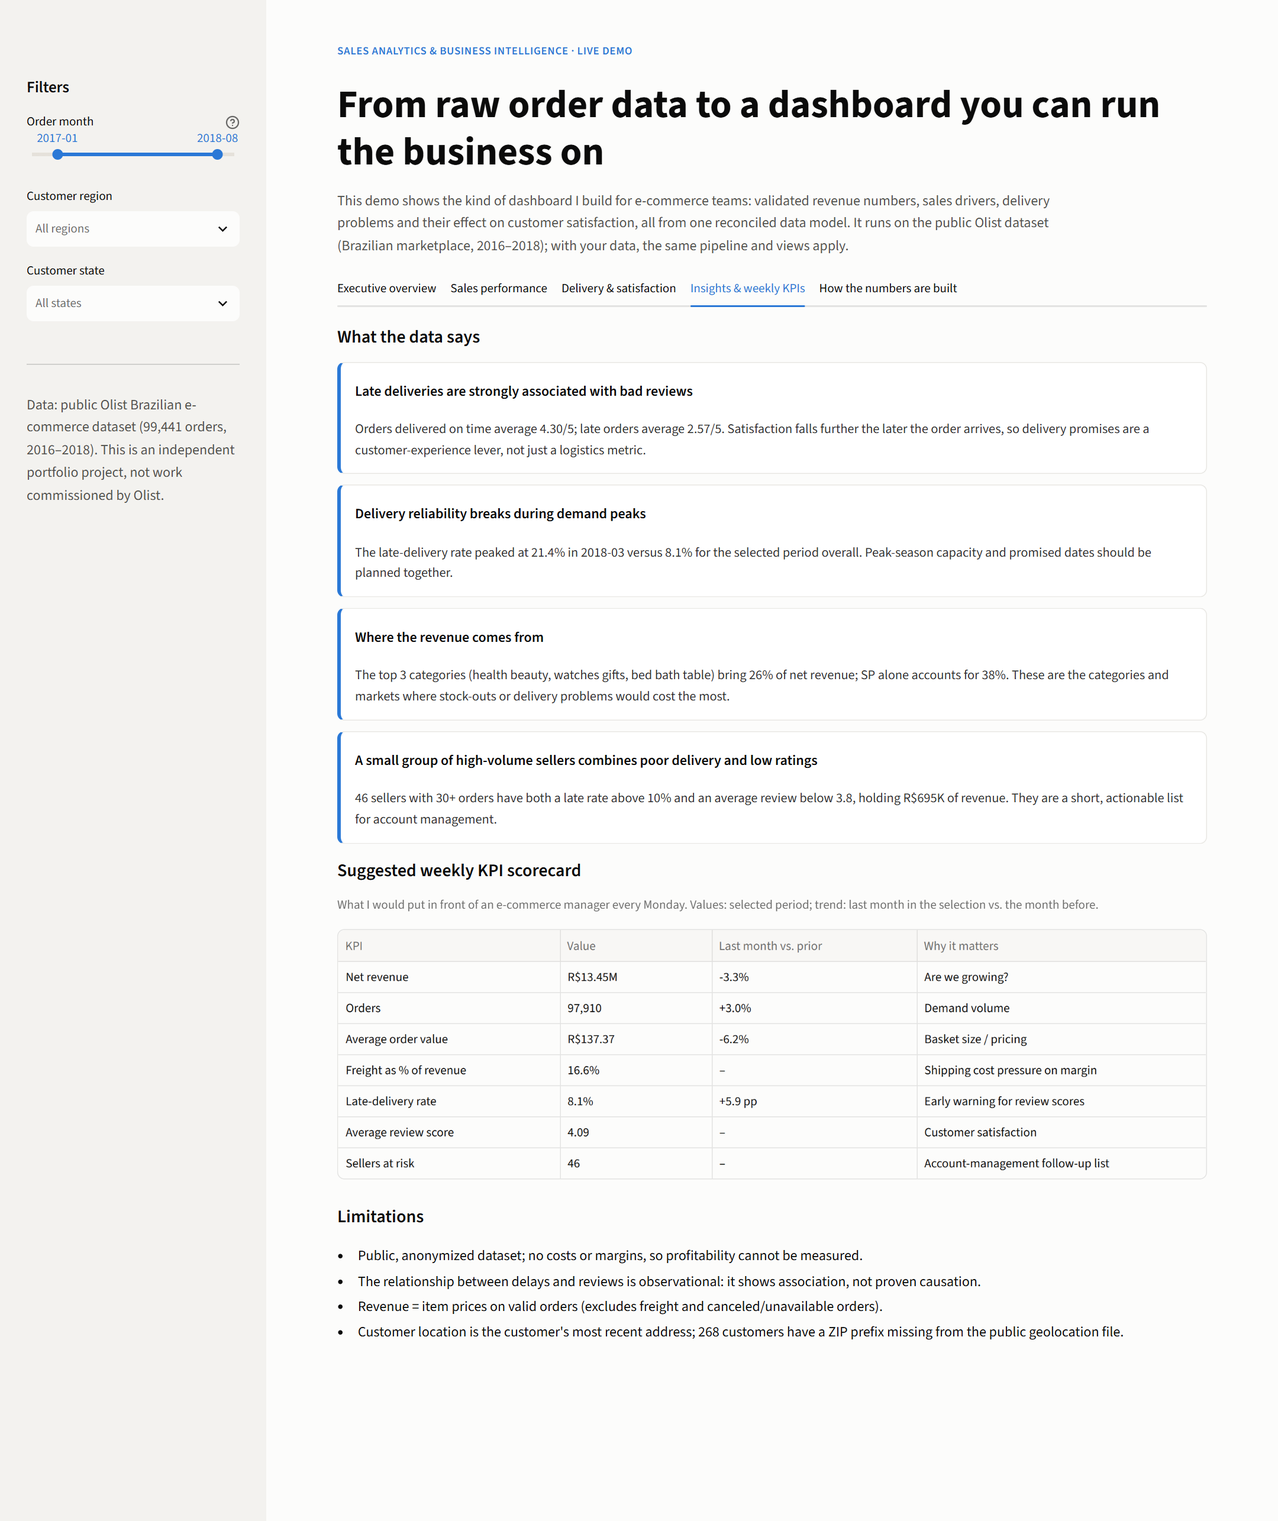
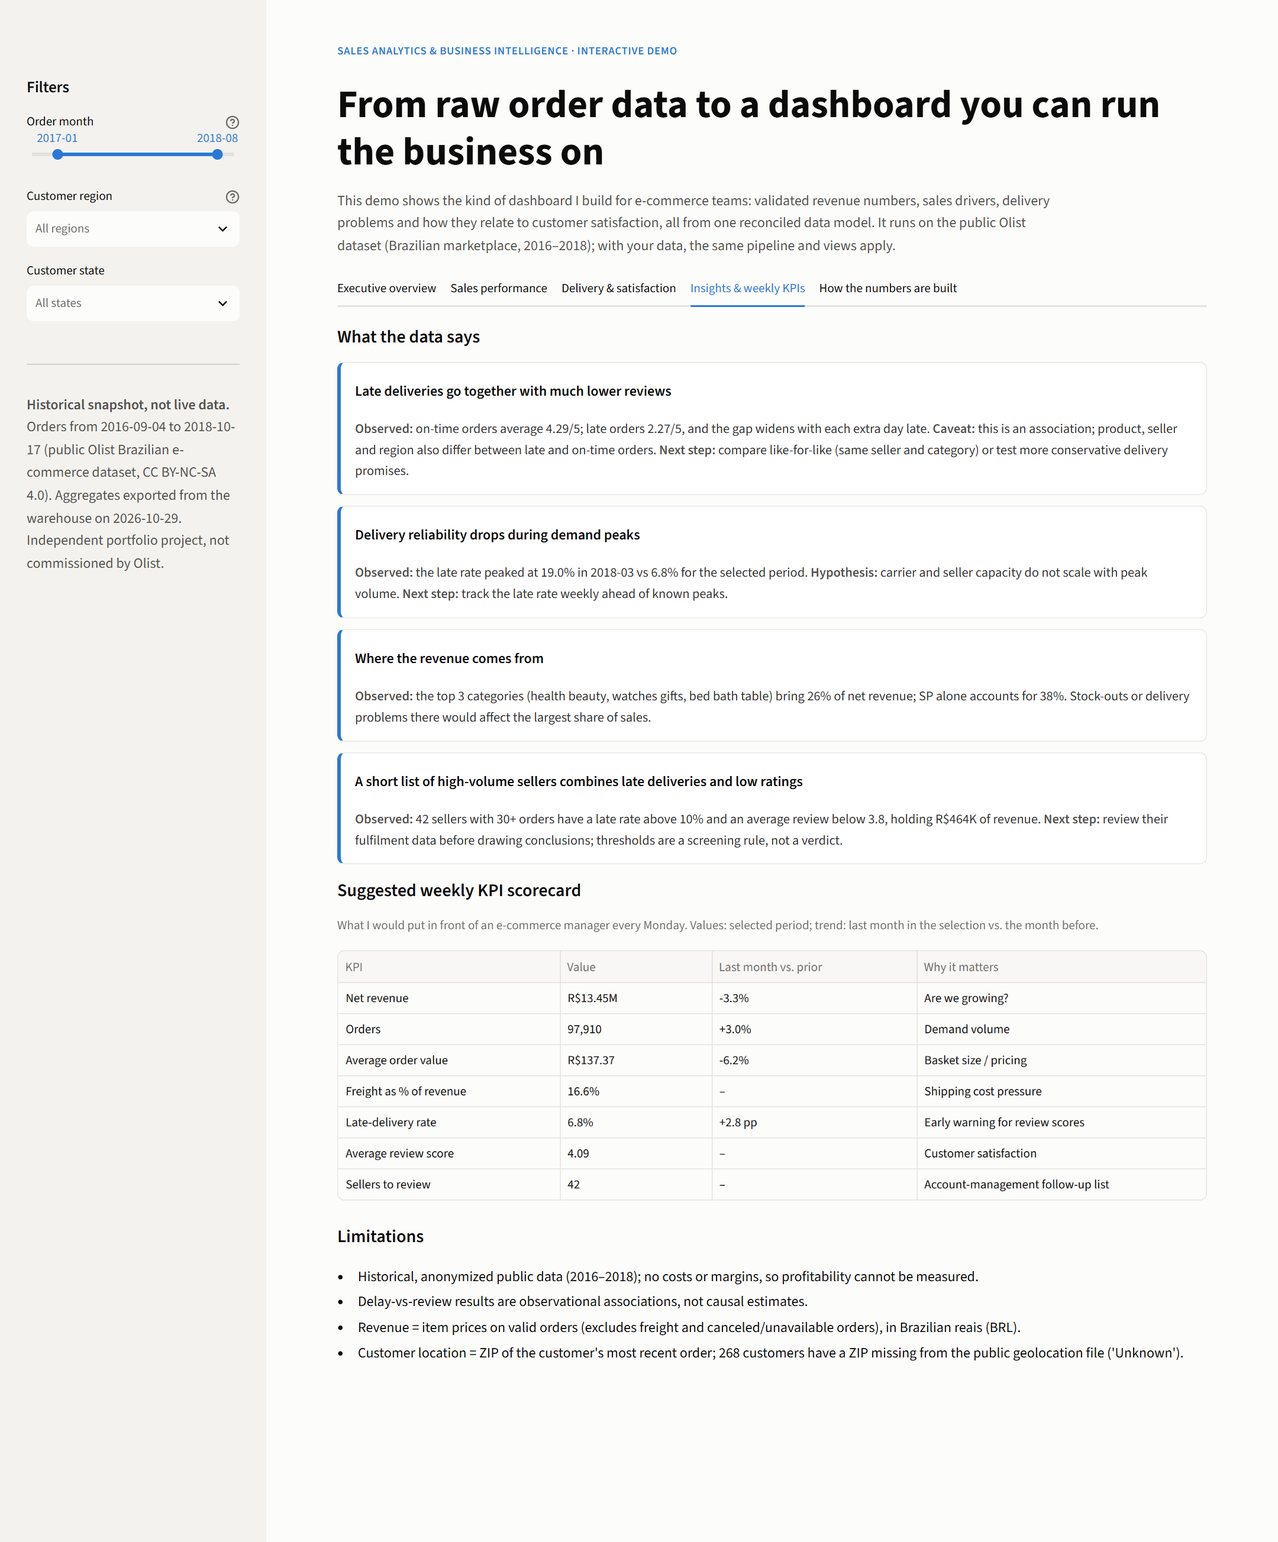
docs: recruiter-first README, deployment guide and refreshed demo screenshots
- README leads with problem, build, stack, verified KPIs, demo and the
  portfolio-vs-client distinction; adds tests/validation and data license
- docs/DEPLOYMENT.md: Streamlit Community Cloud steps and data refresh
- demo: mobile top padding so the header no longer covers the title
- screenshots regenerated from the running demo after the KPI changes

diff --git a/demo/app.py b/demo/app.py
@@ -41,7 +41,7 @@ st.markdown(
 .insight p {margin: 0; color: #303030; font-size: .93rem;}
 .insight .label {color: #52514e; font-weight: 600;}
 @media (max-width: 640px) {
-  .block-container {padding-left: 1rem; padding-right: 1rem;}
+  .block-container {padding-left: 1rem; padding-right: 1rem; padding-top: 3.5rem;}
   h1 {font-size: 1.7rem !important;}
 }
 </style>

diff --git a/README.md b/README.md
@@ -1,54 +1,44 @@
 # Olist E-Commerce Analytics & BI
 
-**A reproducible sales-analytics stack — from 1.5 million raw rows to reconciled KPIs, a Power BI executive dashboard and a client-ready web demo.**
+**From 1.5 million raw marketplace rows to reconciled KPIs, a Power BI executive dashboard and an interactive web demo — with every number tested.**
 
-Built on the public [Olist Brazilian e-commerce dataset](https://www.kaggle.com/datasets/olistbr/brazilian-ecommerce) (99,441 orders, 2016–2018). Independent portfolio project; not commissioned by or affiliated with Olist.
+*Independent portfolio project on the public [Olist Brazilian e-commerce dataset](https://www.kaggle.com/datasets/olistbr/brazilian-ecommerce) (99,441 orders, 2016–2018). Not commissioned by, affiliated with, or used by Olist; no figure below is a business result I delivered to a client.*
+
+**Demo:** `streamlit run demo/app.py` (no database needed) · public deployment steps in [docs/DEPLOYMENT.md](docs/DEPLOYMENT.md)
 
 ![Web demo — executive overview](images/demo/01_executive_overview.png)
 
-| Net revenue analysed | Valid orders | Unique customers | Avg order value | Late deliveries | Review: on-time vs late |
-|---:|---:|---:|---:|---:|---:|
-| R$ 13.49M | 98,207 | 96,096 | R$ 137.41 | 8.11% | 4.29 vs 2.57 |
+| Net revenue analysed | Valid orders | Avg order value | Late deliveries | Review: on-time vs late | Data checks | Tests |
+|---:|---:|---:|---:|---:|---:|---:|
+| R$ 13.49M | 98,207 | R$ 137.41 | 6.77% | 4.29 vs 2.27 | 44 (0 failing) | 57 passing |
 
-Every figure above is produced by the SQL model and re-checked by the automated test suite ([data-quality report](reports/data_quality_report.md)).
+KPIs are identical in PostgreSQL, Power BI and the web demo — see the [reconciliation matrix](docs/KPI_RECONCILIATION.md).
 
 ---
 
 ## The business problem
 
-An online marketplace generates data in many disconnected tables: orders, items, payments, reviews, sellers, products, locations. Answering simple management questions — *How much are we really selling? Which categories and sellers drive revenue? Where does delivery fail, and does it cost us customer satisfaction?* — requires joining them correctly. Done naively, multi-item and multi-payment orders double-count revenue, canceled orders inflate sales, and the same customer appears as thousands of "new" ones.
+A marketplace stores orders, items, payments, reviews, customers, sellers and products in separate tables. Answering *how much did we sell, what drives it, where does delivery fail and does it hurt satisfaction?* means joining them, and the easy joins are wrong: multi-item and multi-payment orders double-count revenue, canceled orders inflate sales, and every order looks like a new customer because Olist issues a new `customer_id` per order.
 
-## The solution
-
-1. **PostgreSQL warehouse** with `raw → staging → analytics → reporting` layers, typed columns and PK/FK/CHECK constraints.
-2. **Star schema** — 5 dimensions and 3 fact tables at order, item and payment grain, so revenue is never multiplied by joins.
-3. **Python pipeline** — one command rebuilds the whole warehouse in a single transaction (≈30 s), idempotently.
-4. **Automated data quality** — 42 checks (keys, nulls, dates, money, cross-grain revenue reconciliation) plus 40 pytest tests on a hand-checkable fixture dataset.
-5. **Power BI** — six-page executive dashboard on the star schema with a documented DAX measure library.
-6. **Web demo (Streamlit)** — a guided, filterable version for clients who do not use Power BI, reconciled to the SQL KPIs.
-
-## Key findings
-
-- **Late delivery is strongly associated with poor reviews.** On-time orders average **4.29/5**; late ones **2.57/5**. 15+ days late, 76% of reviews are 1–2 stars.
-- **Delivery breaks during demand peaks.** The late rate rose from ~3–5% in mid-2017 to **14.3%** in Nov 2017 (Black Friday) and **21.4%** in Mar 2018.
-- **Revenue is geographically concentrated:** São Paulo state is **38.3%** of net revenue; the North-East has the worst delivery (Alagoas 24.0% late, avg review 3.76).
-- **Seller revenue is concentrated:** the top 10% of sellers generate **67.4%** of net revenue. **44** sellers with 30+ orders combine >10% late deliveries with an average review below 3.8 — a short, actionable list.
-- **Growth:** Jan–Aug 2018 net revenue was **+138.3%** vs Jan–Aug 2017; repeat customers are only **3.12%** of the base.
-
-Details and recommendations: [business insights](insights/business_insights.md) · [recommendations](insights/recommendations.md).
-
-## Architecture
+## What I built
 
 ```mermaid
 flowchart LR
-    A[9 Olist CSV files<br/>1.55M rows] -->|python -m olist_bi build| B[(raw<br/>typed + constrained)]
-    B --> C[(staging<br/>cleaning, flags,<br/>ZIP aggregation)]
+    A[9 Olist CSVs<br/>1.55M rows] -->|python -m olist_bi build| B[(raw<br/>typed + constrained)]
+    B --> C[(staging<br/>cleaning flags)]
     C --> D[(analytics<br/>5 dims + 3 facts)]
     D --> E[(reporting<br/>validated views)]
-    D -->|42 checks| Q[Data-quality report]
-    D -->|Import| P[Power BI<br/>6-page dashboard]
-    D -->|python -m olist_bi export| X[Parquet aggregates] --> S[Streamlit demo]
+    D -->|44 checks| Q[Data-quality report]
+    D -->|Import| P[Power BI<br/>6 pages]
+    D -->|export| X[Parquet aggregates] --> S[Streamlit demo]
 ```
+
+- **PostgreSQL warehouse** in four layers with PK/FK/CHECK constraints, rebuilt by a **Python pipeline** in one transaction (~30 s, idempotent).
+- **Star schema** with facts at order, item and payment grain, so revenue is never multiplied by joins.
+- **Data quality gate:** 44 checks — keys, nulls, dates, money, and revenue reconciliation across grains and views ([report](reports/data_quality_report.md)).
+- **57 automated tests**, including a hand-computed fixture warehouse and demo-vs-SQL reconciliation under date, region, state, category and seller filters; GitHub Actions builds the full warehouse twice and runs them.
+- **Power BI** six-page dashboard on the star schema with a documented [DAX library](powerbi/dax_measures.md).
+- **Streamlit demo** for viewers without Power BI: filters, insights with caveats, a weekly KPI scorecard and an in-app reconciliation table.
 
 ### Star schema
 
@@ -63,117 +53,51 @@ erDiagram
     dim_geography ||--o{ dim_customer : zip_code_prefix
     dim_product ||--o{ fact_order_items : product_id
     dim_seller ||--o{ fact_order_items : seller_id
-    fact_orders {
-        char order_id PK
-        numeric items_revenue
-        numeric freight_total
-        numeric payments_total
-        numeric delivery_days
-        bool is_late
-        numeric avg_review_score
-    }
-    fact_order_items {
-        char order_id PK
-        int order_item_id PK
-        numeric price
-        numeric freight_value
-    }
-    fact_payments {
-        char order_id PK
-        int payment_sequential PK
-        text payment_type
-        numeric payment_value
-    }
 ```
 
 | Table | Grain | Used for |
 |---|---|---|
-| `fact_orders` | one order | revenue, orders, AOV, delivery, reviews (revenue pre-aggregated per order) |
+| `fact_orders` | one order | revenue, orders, AOV, delivery, reviews (items/payments pre-aggregated per order) |
 | `fact_order_items` | one item in an order | category, product and seller breakdowns |
-| `fact_payments` | one payment transaction | payment method and installments |
-| `dim_customer` | one real person (`customer_unique_id`) | repeat behaviour, customer geography (latest address) |
-| `dim_geography` | one ZIP prefix | customer region/state (seller geography comes from `dim_seller`) |
+| `fact_payments` | one payment | payment method and installments |
+| `dim_customer` | one person (`customer_unique_id`) | repeat behaviour; geography of the latest order |
+| `dim_geography` | one ZIP prefix | customer region/state (`Unknown` when the ZIP is missing from the public geolocation file) |
 
-More: [star schema design](docs/star_schema_design.md) · [KPI definitions](docs/kpi_definitions.md) · [data-quality notes](docs/data_quality_notes.md).
+### Key definitions
 
-## Metric definitions
+- **Net revenue** = item prices on orders not `canceled`/`unavailable`, in BRL, freight excluded.
+- **Late** = delivered on a later **calendar day** than promised. The promised date never has a time of day, so a delivery at 18:00 on the promised day is on time.
+- **Customers** = distinct `customer_unique_id` (96,096; 94,990 with at least one valid order).
 
-- **Net revenue** = sum of item prices on orders not `canceled` / `unavailable` (freight excluded).
-- **Orders / AOV** use the same valid-order population.
-- **Late delivery** = delivered after the estimated delivery timestamp, among delivered orders with valid dates.
-- **Customers** = distinct `customer_unique_id` (96,096 in the dataset; 94,990 have at least one valid order).
+Full catalogue with numerator, denominator, population and SQL/DAX/Python implementation: [docs/KPI_RECONCILIATION.md](docs/KPI_RECONCILIATION.md).
 
-## Data quality and validation
+## Findings and recommendations
 
-`python -m olist_bi check` runs 42 checks and fails on any error-level violation. Current result on the full dataset: **38 passed, 4 warnings, 0 failed** — the warnings are known source-data characteristics (268 customers with a ZIP missing from the geolocation file, 23 deliveries recorded before carrier pickup, 9 zero-value payments, 8 valid orders without items).
+Observed (associations in historical data, not causal effects):
 
-Highlights:
+- **Late orders are reviewed far worse:** 4.29/5 on time vs 2.27/5 late; at 8+ days late, 75–78% of reviews are 1–2 stars.
+- **Late deliveries cluster in peak months:** ~3% in mid-2017, 12.4% in Nov 2017, 19.0% in Mar 2018.
+- **Delivery is slower away from São Paulo:** SP 8.8 days / 4.5% late vs Alagoas 24.6 days / 21.5% late; 60% of sellers are in SP.
+- **Concentration:** SP is 38.3% of revenue; the top 10% of sellers hold 67.4%; 41 sellers with 30+ orders combine >10% late deliveries and reviews below 3.8.
+- **Growth:** Jan–Aug 2018 revenue +138.3% vs Jan–Aug 2017; 3.12% of customers bought more than once.
 
-- Gross revenue, freight and payments in the fact tables equal the raw sources **to the cent** (no fan-out).
-- Net revenue reconciles across order grain, item grain and every reporting view (category, seller, geography, executive).
-- `pytest` builds the warehouse from a tiny fixture dataset where every expected value is computed by hand, including a 2-item / 2-payment order, canceled and unavailable orders, impossible delivery dates and a repeat customer who moved state, and checks that a rebuild is idempotent.
+Each recommendation is written as *finding → evidence → interpretation → hypothesis → action → KPI*, and proposes the analysis or A/B test needed before acting: [insights](insights/business_insights.md) · [recommendations](insights/recommendations.md).
 
-An independent review of the project, including open issues, is in the [technical audit](docs/TECHNICAL_AUDIT.md).
+## Dashboards
 
-## Reproduce it
-
-Requirements: Python 3.11+, PostgreSQL 14+ (local install or Docker).
-
-```bash
-python -m venv .venv
-.venv\Scripts\activate            # macOS/Linux: source .venv/bin/activate
-pip install -r requirements.txt
-cp .env.example .env              # set PGHOST / PGUSER / PGPASSWORD / PGDATABASE
-```
-
-Start PostgreSQL (skip if you already have one) and create the database:
-
-```bash
-docker compose up -d db           # or: createdb olist_analytics
-```
-
-Build, validate and export:
-
-```bash
-python -m olist_bi build                                      # raw → staging → analytics → reporting (~30 s)
-python -m olist_bi check --report reports/data_quality_report.md
-python -m olist_bi export                                     # refreshes demo/data/*.parquet
-```
-
-Tests (integration tests need a **separate** database whose name contains `test`; they drop and rebuild schemas):
-
-```bash
-createdb olist_test
-TEST_DATABASE_URL=postgresql://postgres:postgres@localhost:5432/olist_test pytest
-```
-
-The individual SQL files still run in order with `psql` (see `sql/00_reset` … `sql/06_reporting_views`) for anyone who prefers to step through them manually.
-
-## Web demo
-
-```bash
-streamlit run demo/app.py
-```
-
-The demo needs no database: it reads small additive aggregates (`demo/data/`, < 1 MB) exported from the warehouse, so every filter combination reproduces the SQL definitions. It has five views — executive overview, sales performance, delivery & satisfaction, insights with a suggested weekly KPI scorecard, and a reconciliation page comparing its numbers with SQL.
-
-Deploying publicly (Streamlit Community Cloud, free): point a new app at this repository with main file `demo/app.py`; dependencies are in `demo/requirements.txt`.
+**Web demo** (Streamlit)
 
 | Sales performance | Delivery & satisfaction |
 |---|---|
 | ![Sales performance](images/demo/02_sales_performance.png) | ![Delivery and satisfaction](images/demo/03_delivery_satisfaction.png) |
 
-## Power BI dashboard
-
-[`powerbi/olist_business_intelligence.pbix`](powerbi/olist_business_intelligence.pbix) — Import mode on the `analytics` star schema. Pages: Executive Overview, Sales Performance, Customer Analytics, Product & Category Performance, Seller Performance, Delivery & Customer Satisfaction.
+**Power BI** — [`powerbi/olist_business_intelligence.pbix`](powerbi/olist_business_intelligence.pbix), Import mode on the `analytics` schema: Executive Overview, Sales, Customers, Products & Categories, Sellers, Delivery & Satisfaction.
 
 | Executive overview | Delivery & satisfaction |
 |---|---|
-| ![Executive overview](images/Executive_overview.png) | ![Delivery](images/Delivery_%26_Customer_Satisfaction.png) |
+| ![Power BI executive overview](images/Executive_overview.png) | ![Power BI delivery](images/Delivery_%26_Customer_Satisfaction.png) |
 
-More pages: [sales](images/Sales_performance.png) · [customers](images/Customer_analytics.png) · [products](images/Product_%26_Category_Performance.png) · [sellers](images/Seller_performance.png). Model and connection guide: [powerbi/README.md](powerbi/README.md); measures: [dax_measures.md](powerbi/dax_measures.md).
-
-> The current `.pbix` has older versions of a few measures (review on-time/late, freight, item revenue) than the documented library — e.g. the delivery page shows 4.22 instead of 4.29 for on-time reviews. Verified corrections are in [`powerbi/measure_fixes.dax`](powerbi/measure_fixes.dax).
+More pages: [sales](images/Sales_performance.png) · [customers](images/Customer_analytics.png) · [products](images/Product_%26_Category_Performance.png) · [sellers](images/Seller_performance.png). Model guide: [powerbi/README.md](powerbi/README.md).
 
 ## Tech stack
 
@@ -182,32 +106,65 @@ PostgreSQL · SQL (CTEs, window functions, constraints) · Python (psycopg, pand
 ## Repository layout
 
 ```text
-olist_bi/            Python pipeline: config, build, quality checks, demo export, CLI
-sql/                 00_reset · 01_schema · 02_data_quality (profiling) · 03_cleaning
-                     04_dimensions · 05_facts · 06_reporting_views · 07_business_queries
-tests/               unit, fixture-based integration, demo-data and demo-app tests
-demo/                Streamlit app + exported aggregates
-powerbi/             .pbix, DAX library, measure fixes, model guide
-docs/                audit, case study, schema, KPI and data-quality notes
-insights/            business insights and recommendations
-notebooks/           exploratory analysis (pandas)
-reports/             generated data-quality report
-data/raw/            the 9 original Olist CSV files
+olist_bi/     Python pipeline: config, build, quality checks, demo export, CLI
+sql/          00_reset · 01_schema · 02_data_quality (profiling) · 03_cleaning
+              04_dimensions · 05_facts · 06_reporting_views · 07_business_queries
+tests/        unit, fixture integration, KPI reconciliation, demo app
+demo/         Streamlit app (app.py), KPI logic (metrics.py), exported aggregates
+powerbi/      .pbix, DAX library, measure change log, model guide
+docs/         KPI reconciliation, technical audit, case study, deployment, design notes
+insights/     findings and recommendations
+notebooks/    independent pandas EDA (re-executed with the same definitions)
+reports/      generated data-quality report
+scripts/      Power BI source rebuild, demo screenshot capture
+data/raw/     the 9 original Olist CSVs (CC BY-NC-SA 4.0)
 ```
+
+## Run it
+
+Requirements: Python 3.11+, PostgreSQL 14+ (local or Docker).
+
+```bash
+python -m venv .venv
+.venv\Scripts\activate            # macOS/Linux: source .venv/bin/activate
+pip install -r requirements.txt
+cp .env.example .env              # PGHOST / PGPORT / PGUSER / PGPASSWORD / PGDATABASE
+docker compose up -d db           # or use an existing PostgreSQL and: createdb olist_analytics
+```
+
+```bash
+python -m olist_bi build                                      # raw → staging → analytics → reporting
+python -m olist_bi check --report reports/data_quality_report.md
+python -m olist_bi export                                     # refresh demo/data/*.parquet
+streamlit run demo/app.py
+```
+
+The SQL files also run in order with `psql` (`sql/00_reset` → `sql/06_reporting_views`) for step-by-step review.
+
+## Tests and validation
+
+```bash
+createdb olist_test
+TEST_DATABASE_URL=postgresql://postgres:postgres@localhost:5432/olist_test \
+OLIST_RECONCILE_DATABASE_URL=postgresql://postgres:postgres@localhost:5432/olist_analytics pytest
+```
+
+- Integration tests need a **separate** database whose name contains `test` (they drop and rebuild schemas).
+- Current results: 44 checks (40 pass, 4 documented source-data warnings, 0 failures); 57 tests passing locally (PostgreSQL 18) and in Docker (PostgreSQL 16).
+- Independent review and resolution of every issue found: [docs/TECHNICAL_AUDIT.md](docs/TECHNICAL_AUDIT.md).
 
 ## Limitations
 
-- Public, anonymized data with no costs or margins: profitability cannot be analysed.
-- Delay-vs-review results are observational associations, not causal estimates.
+- Public, anonymized, historical data (2016–2018): no costs or margins, so no profitability analysis; no carrier field.
+- Delay-vs-review results are observational; recommendations call for controlled comparisons before investment.
 - Sep–Dec 2016 and Sep–Oct 2018 are partial months; trend views default to Jan 2017 – Aug 2018.
-- Customer geography uses each customer's most recent address.
+- Customer geography uses each person's latest order address.
+- The demo is a static snapshot of exported aggregates, not live data.
+
+## Data license
+
+The data is published by Olist on Kaggle under **CC BY-NC-SA 4.0** (attribution, non-commercial, share-alike). The CSVs, the derived aggregates and the screenshots are shared under that license for education and portfolio use only; the code is [MIT](LICENSE). Details: [data/README.md](data/README.md).
 
 ## Author
 
-Built by **Alejandro Cotes** — Business Intelligence & data analytics (Python, SQL, PostgreSQL, Power BI). GitHub: [@AC020907](https://github.com/AC020907).
-
-Case study: [docs/CASE_STUDY.md](docs/CASE_STUDY.md).
-
-## License
-
-Code: [MIT](LICENSE). The Olist dataset is published by Olist on Kaggle under CC BY-NC-SA 4.0 (non-commercial, attribution, share-alike); it is used here only as a public sample for a portfolio project.
+**Alejandro Cotes** — Business Intelligence & analytics engineering (Python, SQL, PostgreSQL, Power BI). GitHub: [@AC020907](https://github.com/AC020907) · Case study: [docs/CASE_STUDY.md](docs/CASE_STUDY.md)

diff --git a/docs/DEPLOYMENT.md b/docs/DEPLOYMENT.md
@@ -1,0 +1,33 @@
+# Deploying the web demo (Streamlit Community Cloud)
+
+The demo reads only `demo/data/*.parquet` (< 1 MB) and needs no database or secrets,
+so it runs on Streamlit Community Cloud's free tier.
+
+## Steps (one time, ~5 minutes)
+
+1. Sign in at <https://share.streamlit.io> with the GitHub account that owns the repository.
+2. **Create app → Deploy a public app from GitHub**.
+3. Repository `AC020907/olist-ecommerce-analytics-bi`, branch `main`, main file path `demo/app.py`.
+4. **Advanced settings → Python version 3.13**. Dependencies are read from
+   `demo/requirements.txt` (the file next to the app takes precedence over the root one).
+5. Optional: choose a custom subdomain, e.g. `olist-bi-demo`.
+6. Deploy, then open the URL and check: the five tabs render, the month slider and region
+   filter update the KPIs, and "How the numbers are built" shows identical SQL and demo values.
+7. Add the URL to the top of `README.md` (the `Demo:` line).
+
+Theme settings are in `.streamlit/config.toml` at the repository root.
+
+## Updating the data
+
+```bash
+python -m olist_bi build
+python -m olist_bi export        # rewrites demo/data/*.parquet and export_metadata.json
+pytest tests/test_demo_data.py tests/test_kpi_reconciliation.py
+```
+
+Commit and push `demo/data/`; Streamlit Cloud redeploys automatically on push.
+
+## Licensing note
+
+The aggregates derive from the Olist dataset (CC BY-NC-SA 4.0). The public demo is a
+non-commercial portfolio piece; do not put it behind a paywall or use it as a paid product.
